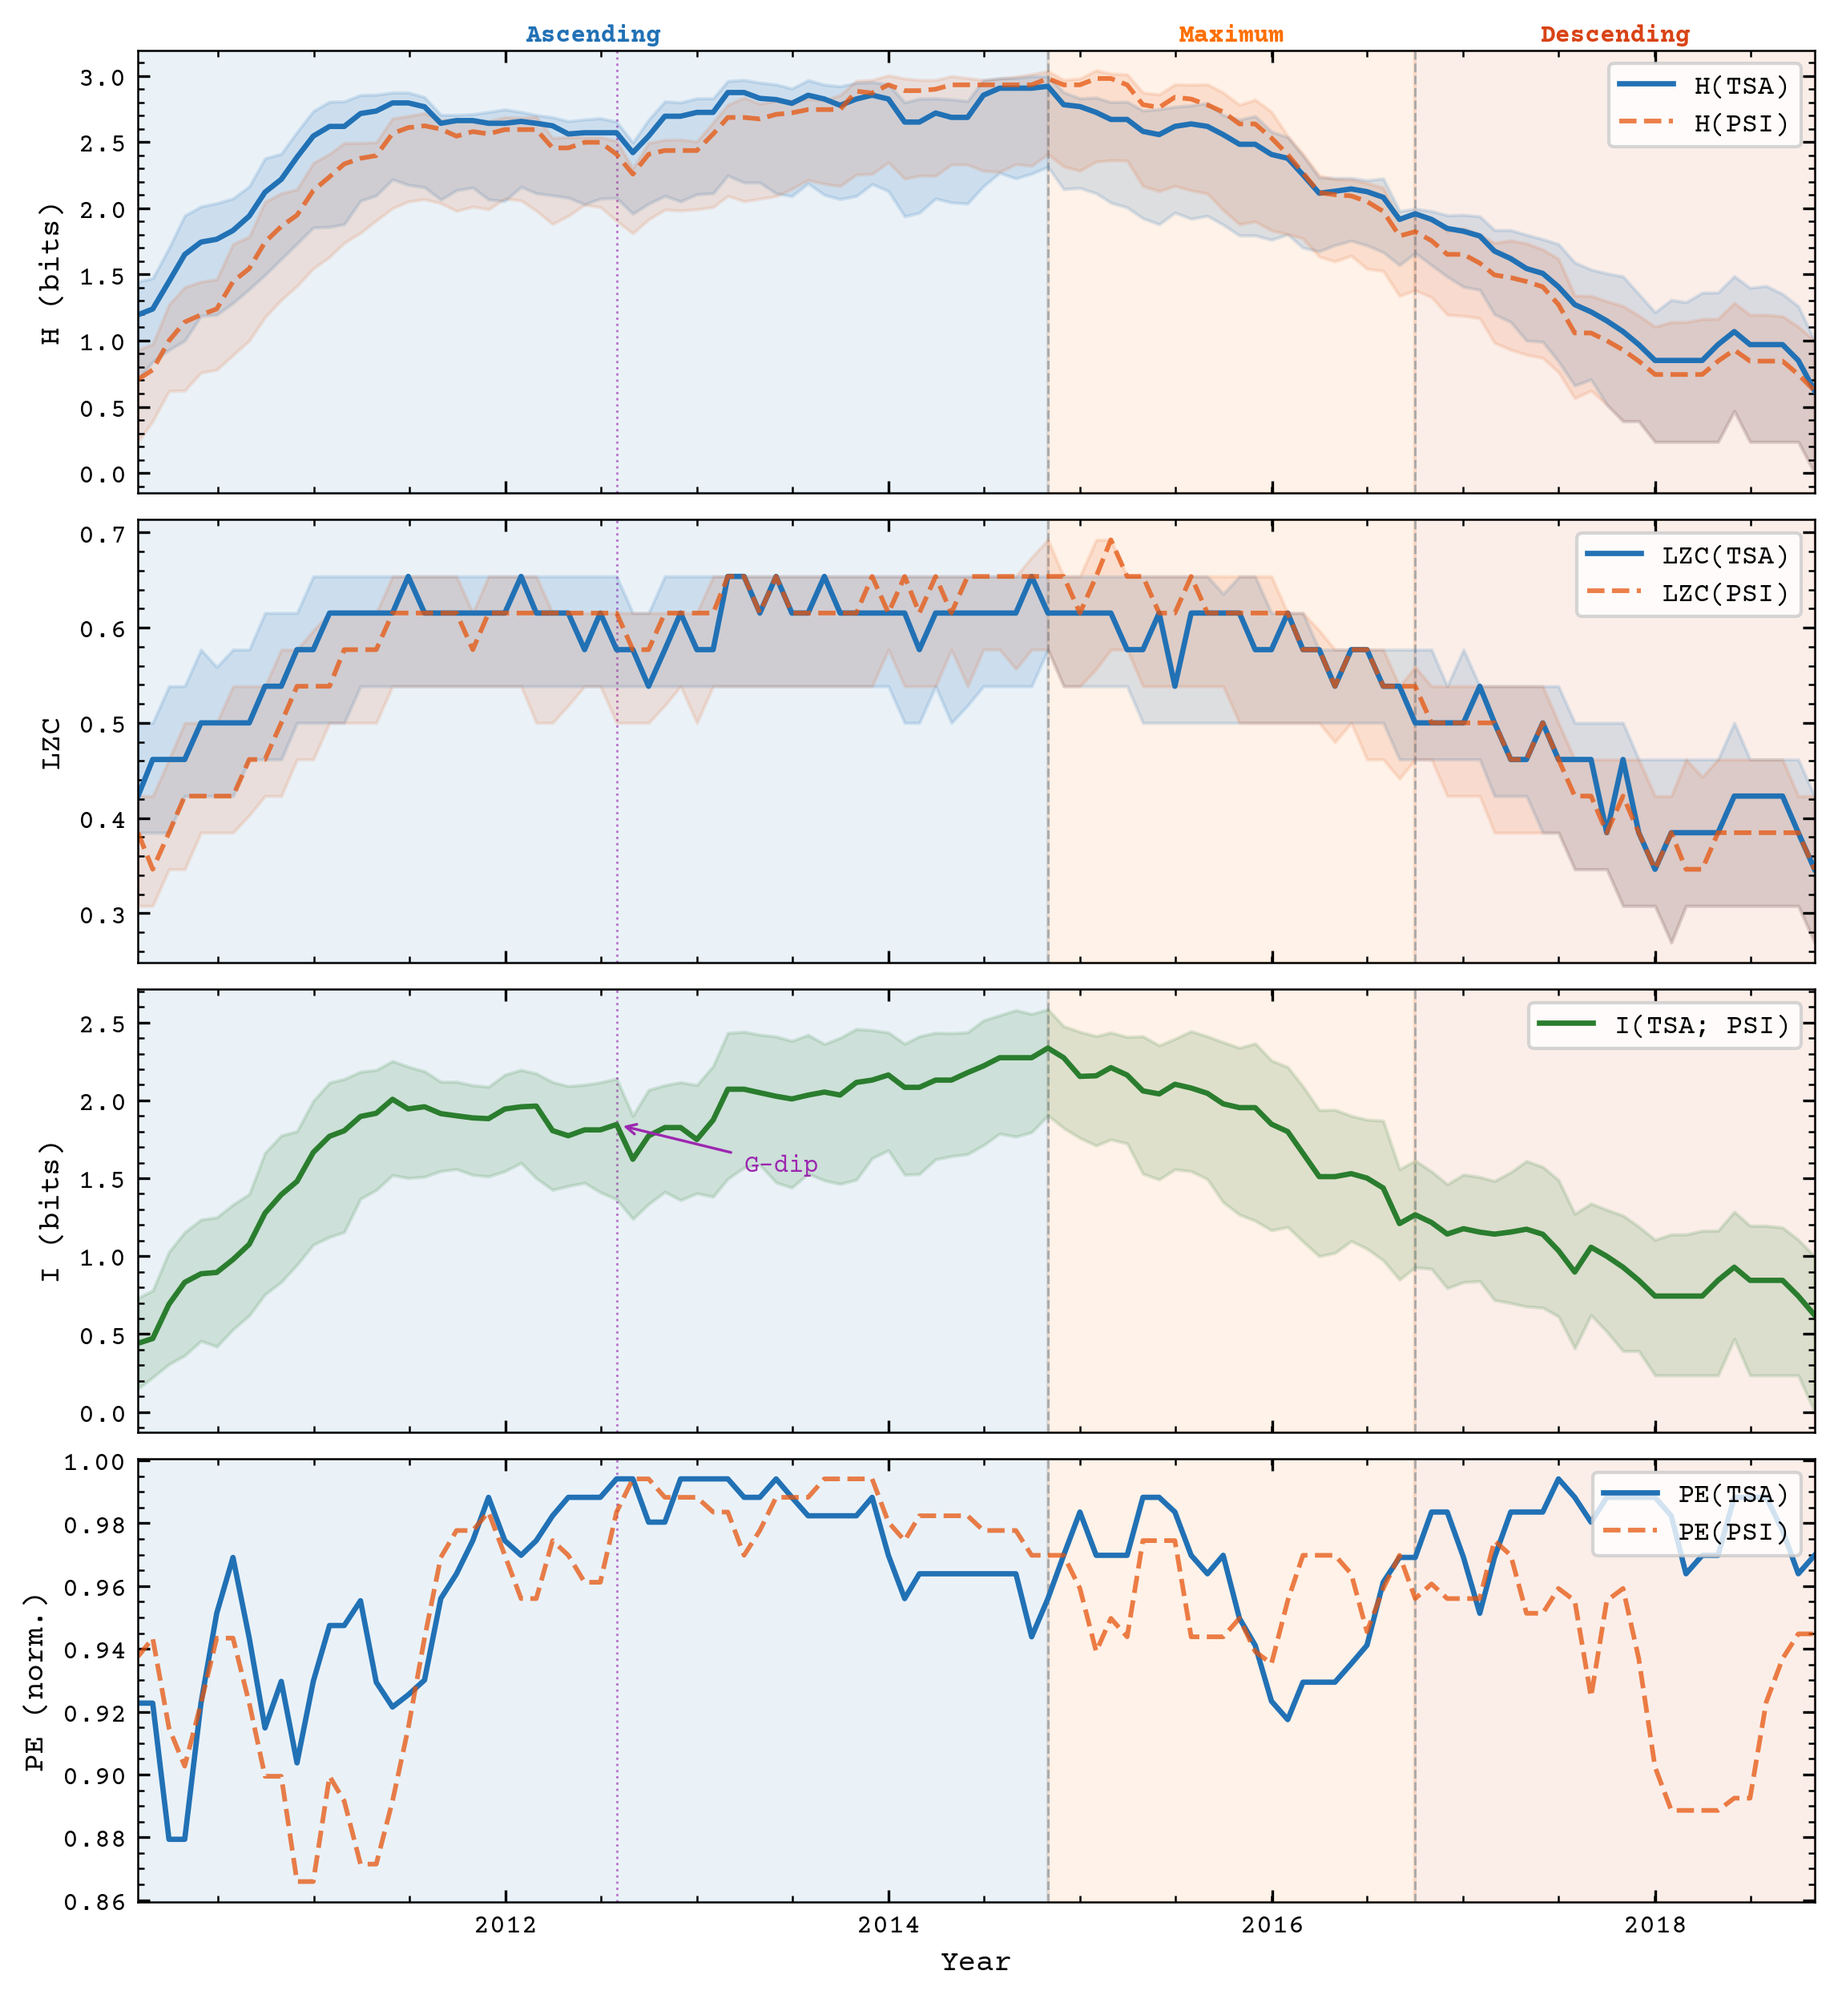
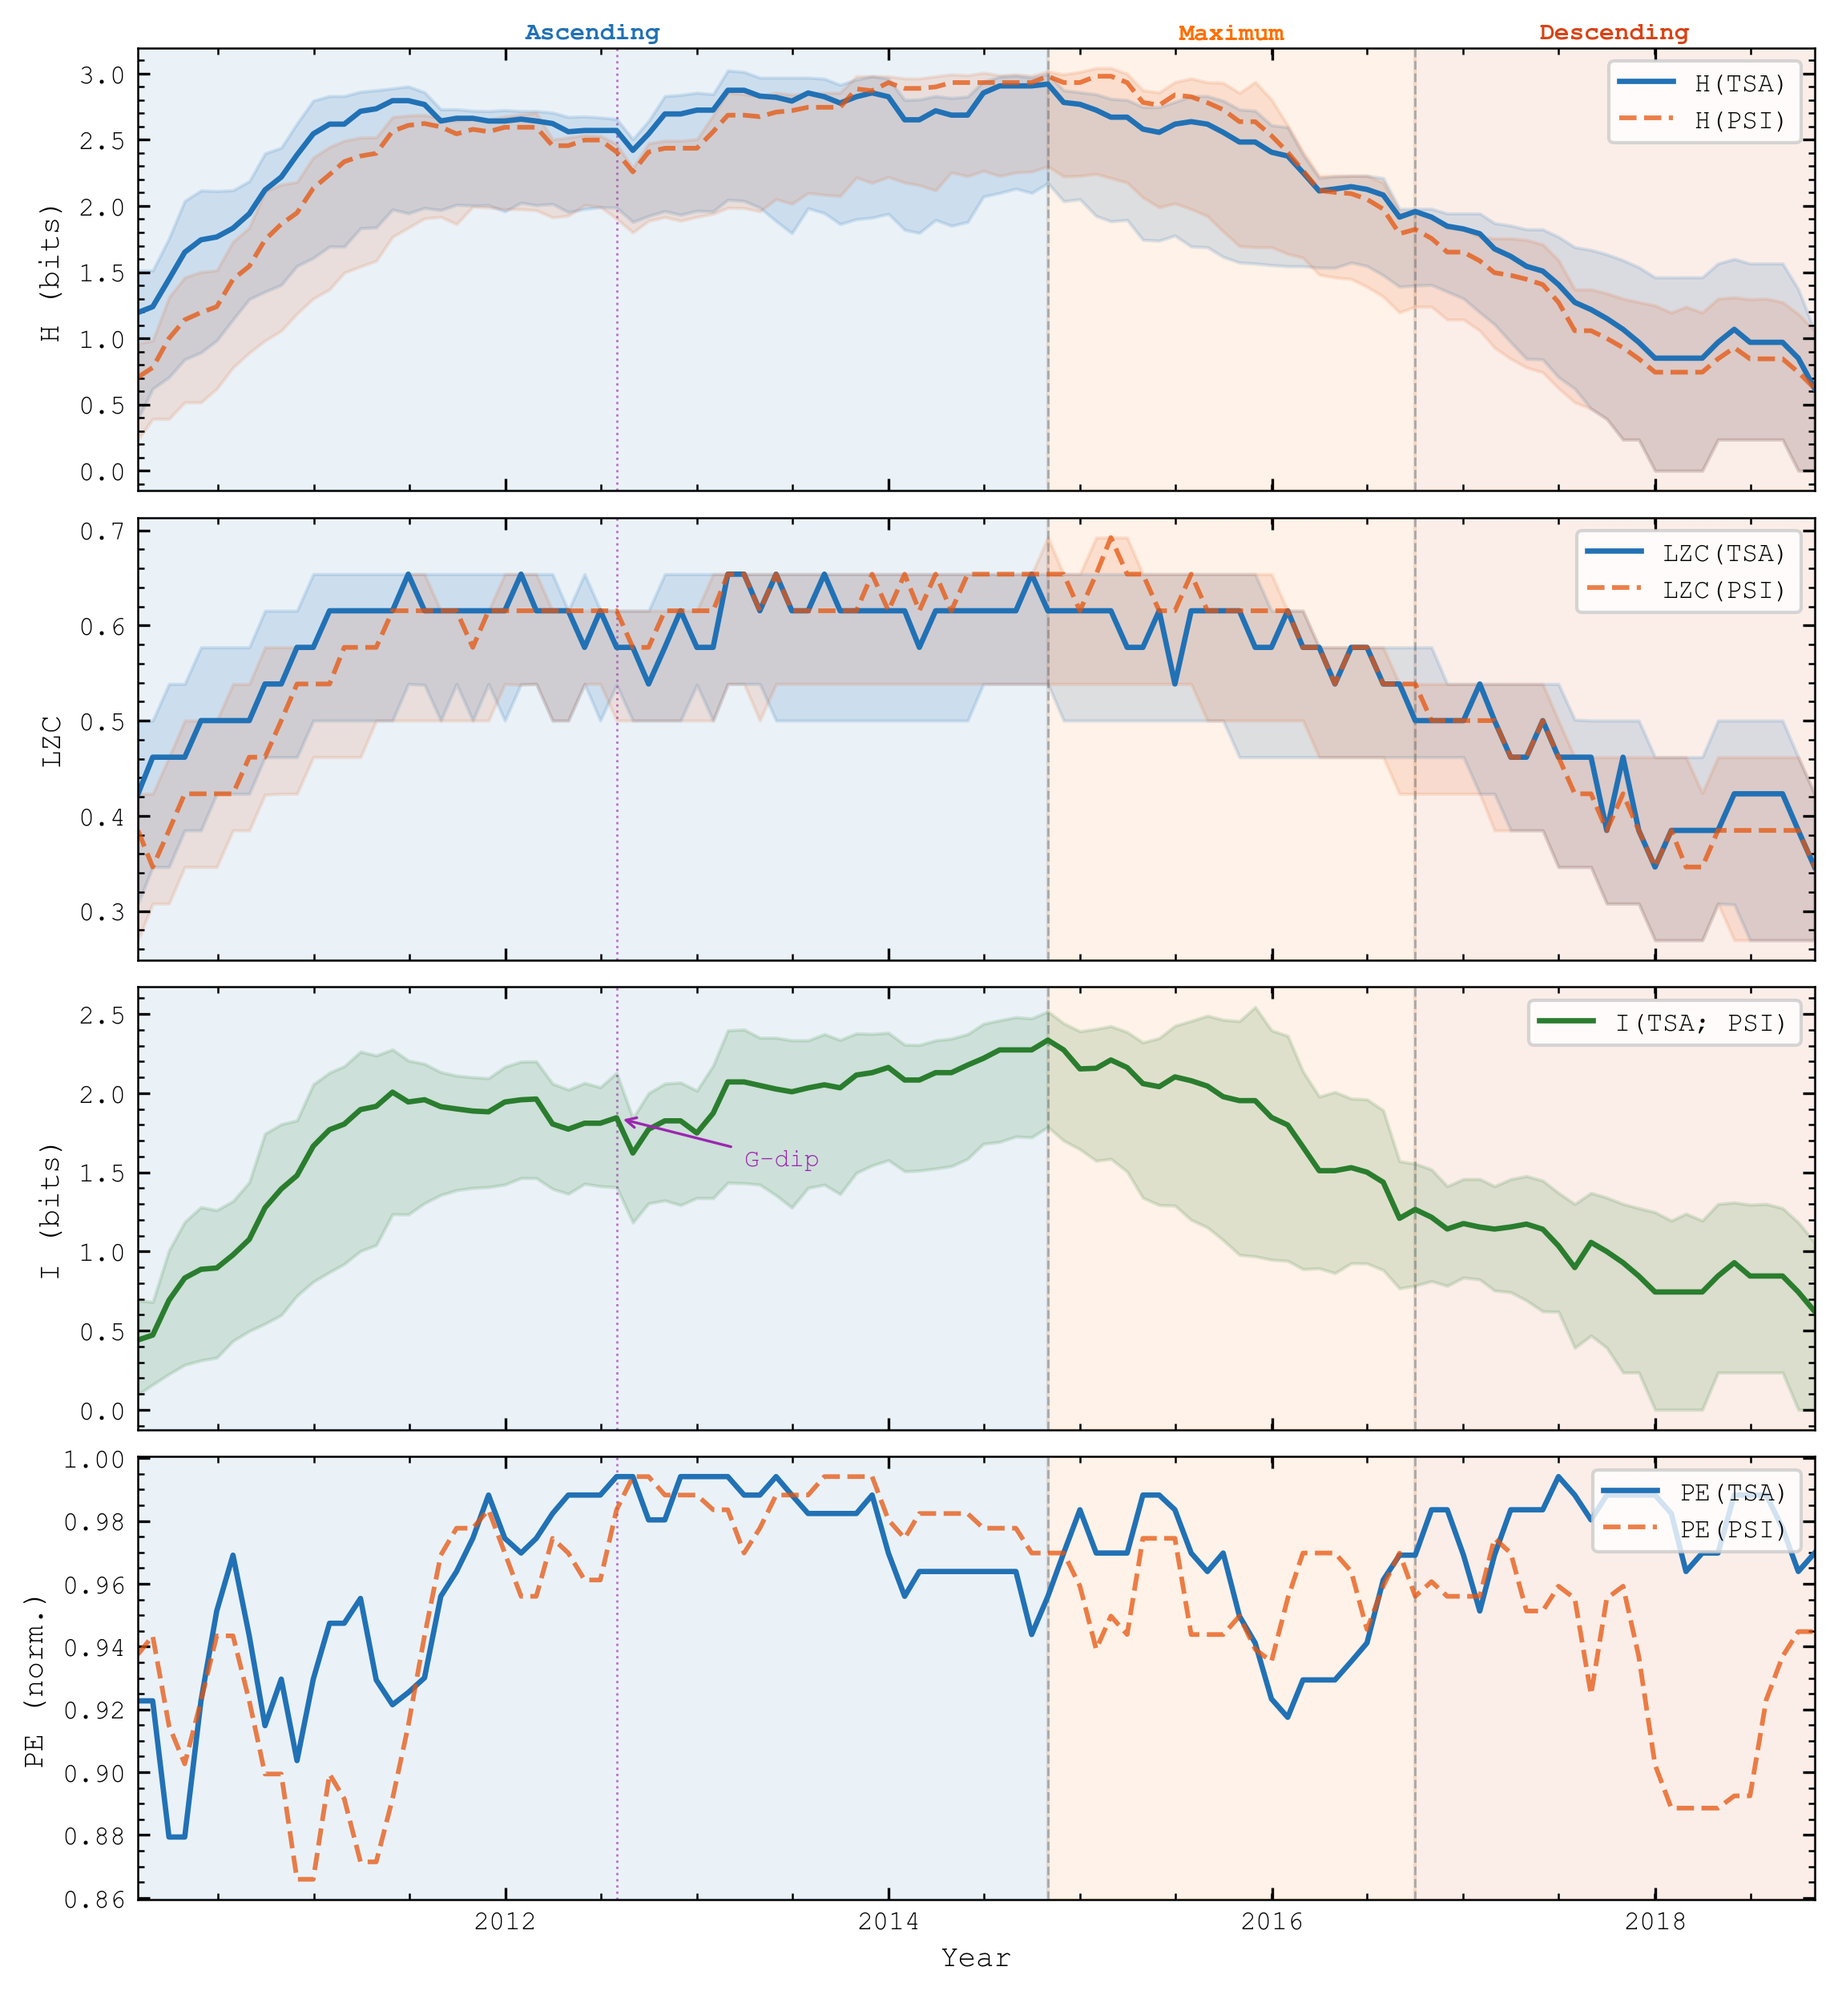
Add files via upload

diff --git a/robustness_summary.md b/robustness_summary.md
@@ -1,0 +1,47 @@
+# robustness_summary.md
+## Track A (robustness) — frozen results. Direct input to FC-TEXTO.
+
+- seed=20260531 · n_boot=2000 · block=26 · WINDOW=26 · N_BINS=10
+- Does NOT overwrite v2. New files with the _FC suffix.
+
+### Hashes of the frozen CSVs
+| arquivo | md5 |
+|---|---|
+| mi_estimators.csv | `4f653eb2f13d4c6ecd322e2b6b9c2858` |
+| mi_estimator_series.csv | `5d01f5facb2f56df8a285973edd05290` |
+| block_bootstrap_pvalues.csv | `0c09b0839c09c37ab896a5d02e50f6a6` |
+| hysteresis_lag_sensitivity.csv | `51d582db378ea41e4db4e0b47edeb585` |
+| ch_reference_signals.csv | `de7117612e9c418aaad64f1327003a0f` |
+| monthly_coverage.csv | `242ab235ffac9d1dde3f18eea45c1d53` |
+| external_phase_tests.csv | `72b4acc0dacccb1035530c7a94301a69` |
+| lzc_lognorm.csv | `9f452e8957f82f3e9354703448711723` |
+| closure_gap_null.csv | `86bc6c7aa33f19e225632b9f89be53e0` |
+
+### Items 1–9: old value → new value (with CI) + verdict
+
+| Item | Old value | New value (95% CI) | File | Verdict |
+|---|---|---|---|---|
+| 1 MI modulation | point ratio 2.2× (plug-in n=10) | plug-in 5.30×; Kraskov k=3/5 ≥1.34× | mi_estimators.csv | SURVIVED: modulation >1 for all estimators; ≥1.34× with Kraskov (binning-free). Plug-in ratio 5.3× is bias-inflated — do NOT cite as a physical magnitude |
+| 2 p-values | p<1e-10 (MW/KS/Pearson) | effect size + IC (MW rank-biserial CI exclui 0) | block_bootstrap_pvalues.csv | resolvido: substituir p<1e-10 por IC |
+| 3 hysteresis lag | 23 m (Oct/2014→Sep/2016) | 23 m canonical (W=26,bins=10) confirmed; grid 14/15 positive, bins10 [18,23] m | hysteresis_lag_sensitivity.csv | ROBUST: canonical lag 23 m (W=26, bins=10, Oct 2014→Sep 2016); positive in 14/15 grid configs (bins=10 range 18–23 m) |
+| 4 C–H ref signals | claim of 'intermediate regime' | SC24 C_max 0.237 vs ruído branco 0.003 (76×), 1/f 0.067, periódico 0.037 | ch_reference_signals.csv | SUPPORTS structured regime (do not moderate) |
+| 5 gaps 2018–19 | 89.8% global coverage | monthly coverage + descending-branch sensitivity | monthly_coverage.csv | efeito reportado; missing≠spotless |
+| 6 TSA–PSI dependence | qualitative refutation (3 args) | MI_obs vs mechanical null (per-phase shuffle) | mi_estimators.csv | quantified |
+| 7 external phases | splits by MI/C_LMC peaks | SILSO splits (max Apr/2014) | external_phase_tests.csv | contrast PRESERVED across the 4 metrics (non-circular) |
+| 8 LZC log-norm | c(n)/n (Aboy 2006) | c(n)·log_a(n)/n + c/n | lzc_lognorm.csv | max>min ordering preserved (monotonic rescale) |
+| 9 closure gap | 10.2% sem referência | 10.2% vs null AAFT_by_branch mediano 33% [4,73], p=0.14 | closure_gap_null.csv | closing tendency, not significant at 5% (p=0.14); report as descriptive — r_start/r_end/Δmax defined |
+
+### SHARED NUMBERS — what to propagate (and what NOT to) in FC-TEXTO
+(appear in abstract, figures, Table II and conclusion — edit in a single pass)
+
+- **lag**: UNCHANGED at 23 m (canonical, W=26 bins=10, Oct 2014→Sep 2016). NOT a number to propagate — the text value stays. Grid is SUPPORTING robustness only: positive in 14/15 configs, bins=10 range 18–23 m. Optional reinforcement sentence; do not replace 23 m with the grid median.
+- **MI modulation**: do NOT cite 2.2×/5.3× as physical; report as a modulation that persists under a binning-free estimator (Kraskov ≥1.34×).
+- **p-values**: every p<1e-10 → effect size + CI (block-bootstrap).
+- **closure gap**: 10.2%; null AAFT_by_branch p=0.14 — descriptive, without claiming significance.
+
+### Method notes (why these verdicts differ from the 1st round)
+- Lag: the peak-to-peak bootstrap is unsuitable regardless of np.sort — block resampling scrambles the SEPARATION between the two peaks (FC-LAG-TEST: median ~-9, CI [-88,+84] either way). The 23 m point is deterministic; robustness = W×bins GRID.
+- MI: the max/min ratio CI is degenerate (hi==point); the verdict comes from the agreement across estimators, not from that CI.
+- Gap: phase-randomisation zeroes the drift (null closes ~0, spurious p=0.98); AAFT-by-branch preserves spectrum+amplitude per branch without imposing closure.
+
+*Generated by CELL FC-LOG [REV]. Track A complete. Next: FC-TEXTO.*

diff --git a/supplementary_robustness.md b/supplementary_robustness.md
@@ -1,0 +1,26 @@
+# supplementary_robustness.md
+## Supplementary robustness results — additional method validation.
+
+- seed=20260531 · n_boot=2000 · block=26 · WINDOW=26 · N_BINS=10
+- Does NOT overwrite anything. Two new CSVs. main.tex untouched.
+
+### Hashes
+| arquivo | md5 |
+|---|---|
+| pe_saturation.csv | `778122f02a0b7ee4c38d33bbceb7a598` |
+| extra_refs.csv | `499e0599031de44426170947499035c9` |
+
+### Supplementary result 1 — PE (canonical plateau 2011–2015)
+- range 0.9215–0.9941, mean 0.9703, σ 0.0196
+- MW min-vs-max intra-plateau (MI-median split): U=485.0, p=0.6084
+- replaces the orphans 0.879–0.994 / σ=0.026 / p=0.76 (not reproducible)
+
+### Supplementary result 2 — r(MI,*)
+- r(MI,H_TSA)=0.9491 (p=5.5e-54) IC95% [0.8335, 0.9727]
+- r(MI,LZC_TSA)=0.9174 (p=2.1e-43) IC95% [0.5745, 0.9427]
+
+### Supplementary result 3 — full-cycle vs intra-plateau (not contradictory)
+- full-cycle: PE_TSA rank-biserial 0.385 ("preserved")
+- intra-plateau: flat (p=0.6084). PE = Path 1.
+
+*Generated by CELL FC-LOG.1 [REV]. Addendum complete. Next: FC-TEXTO.*
